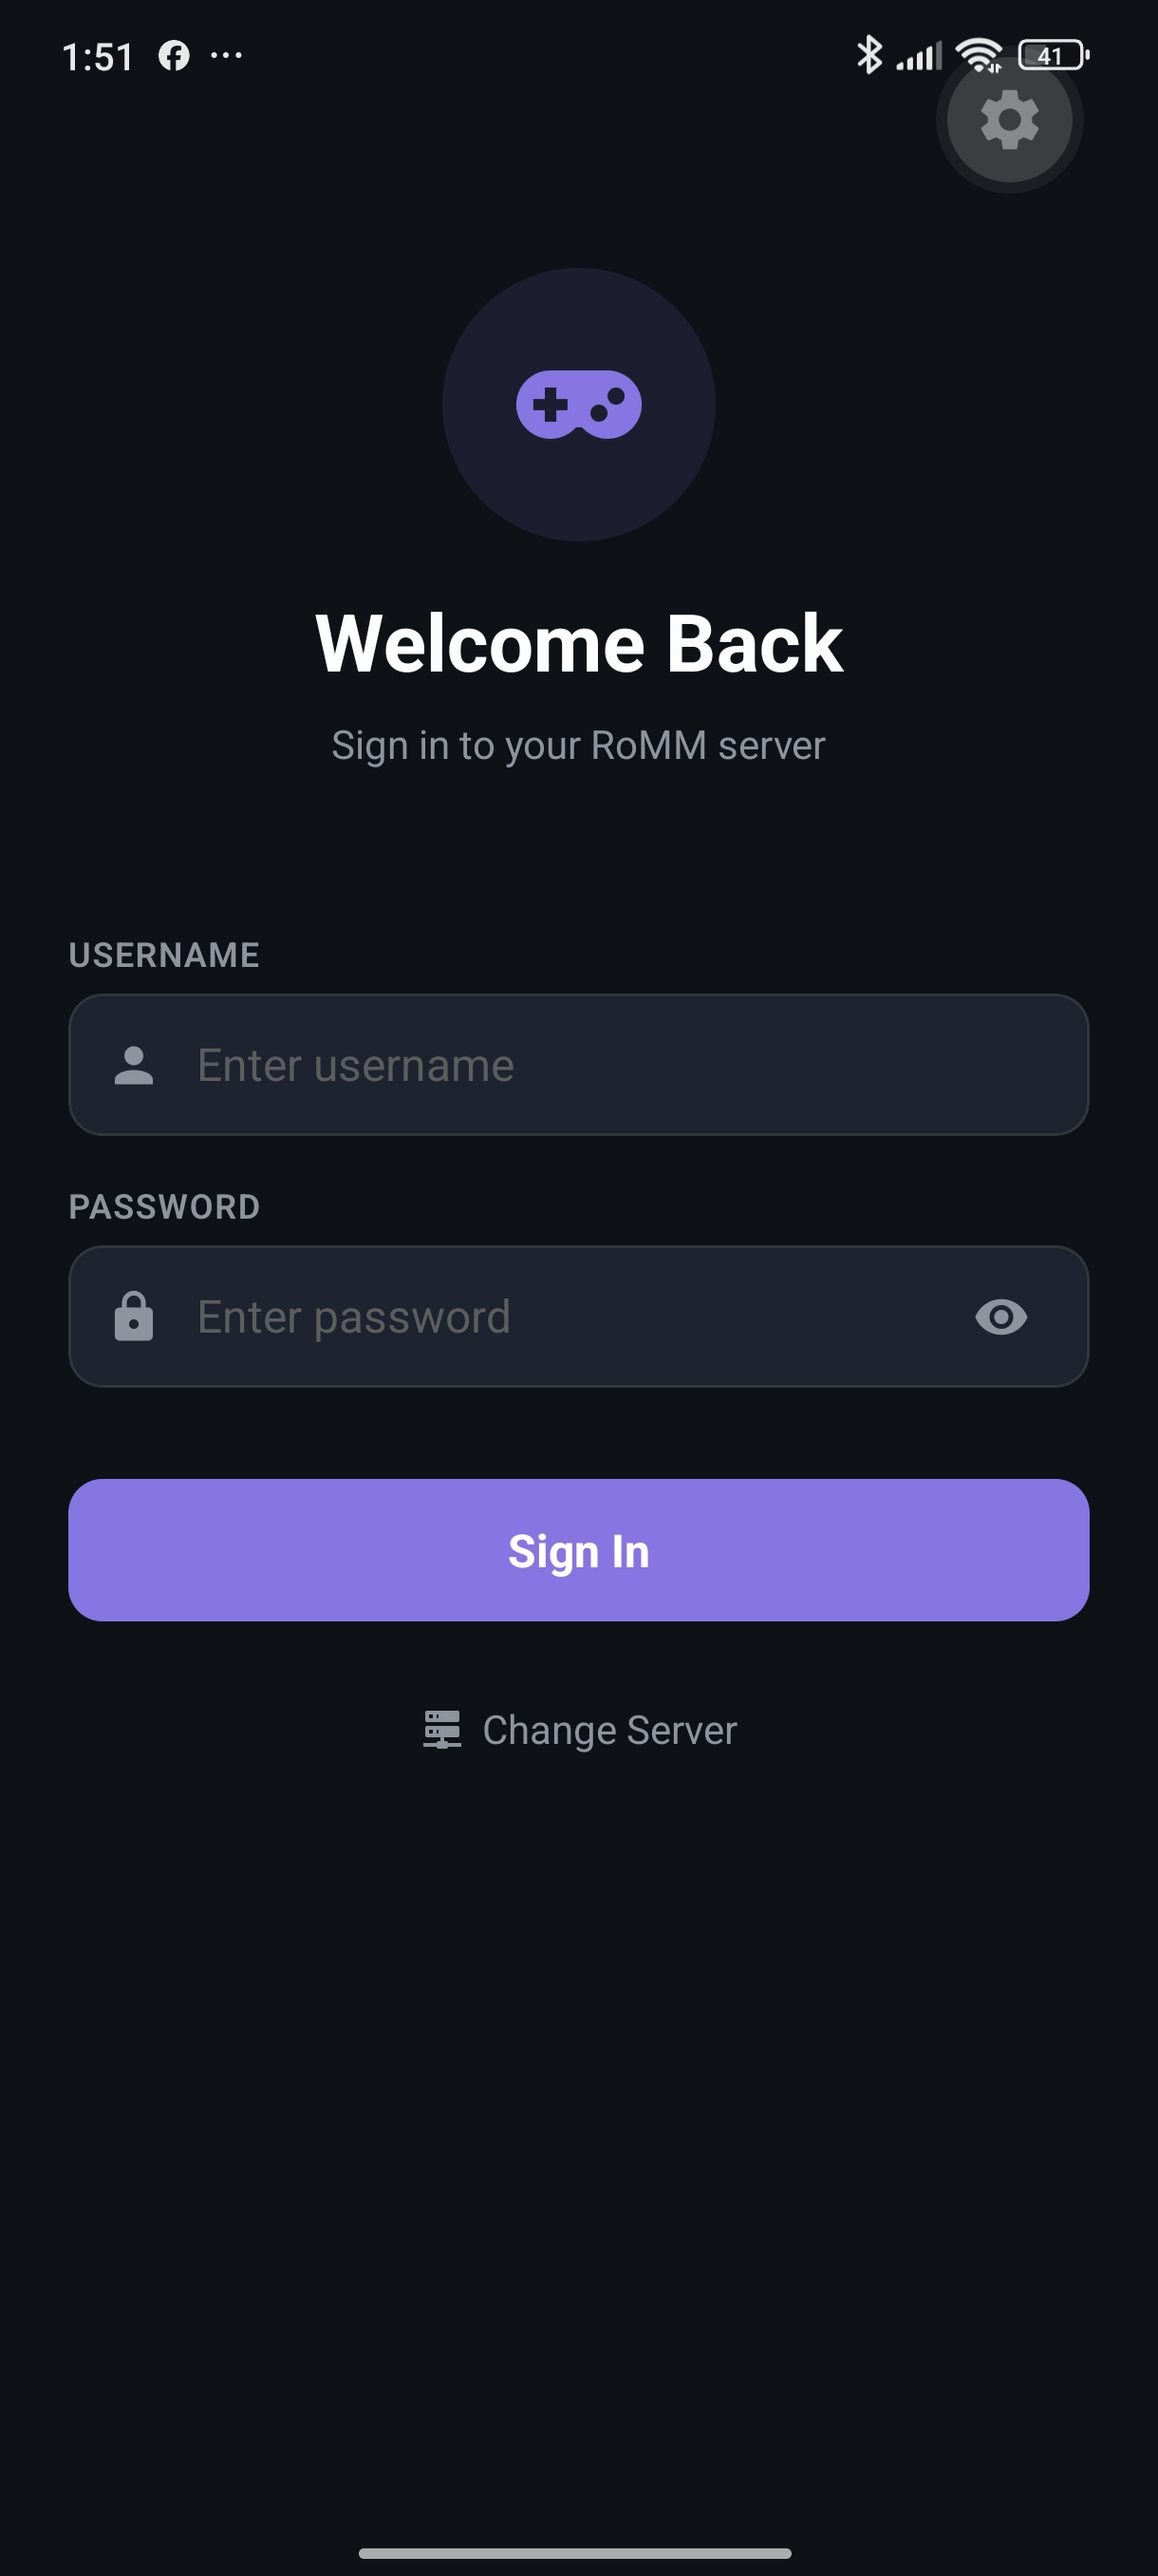
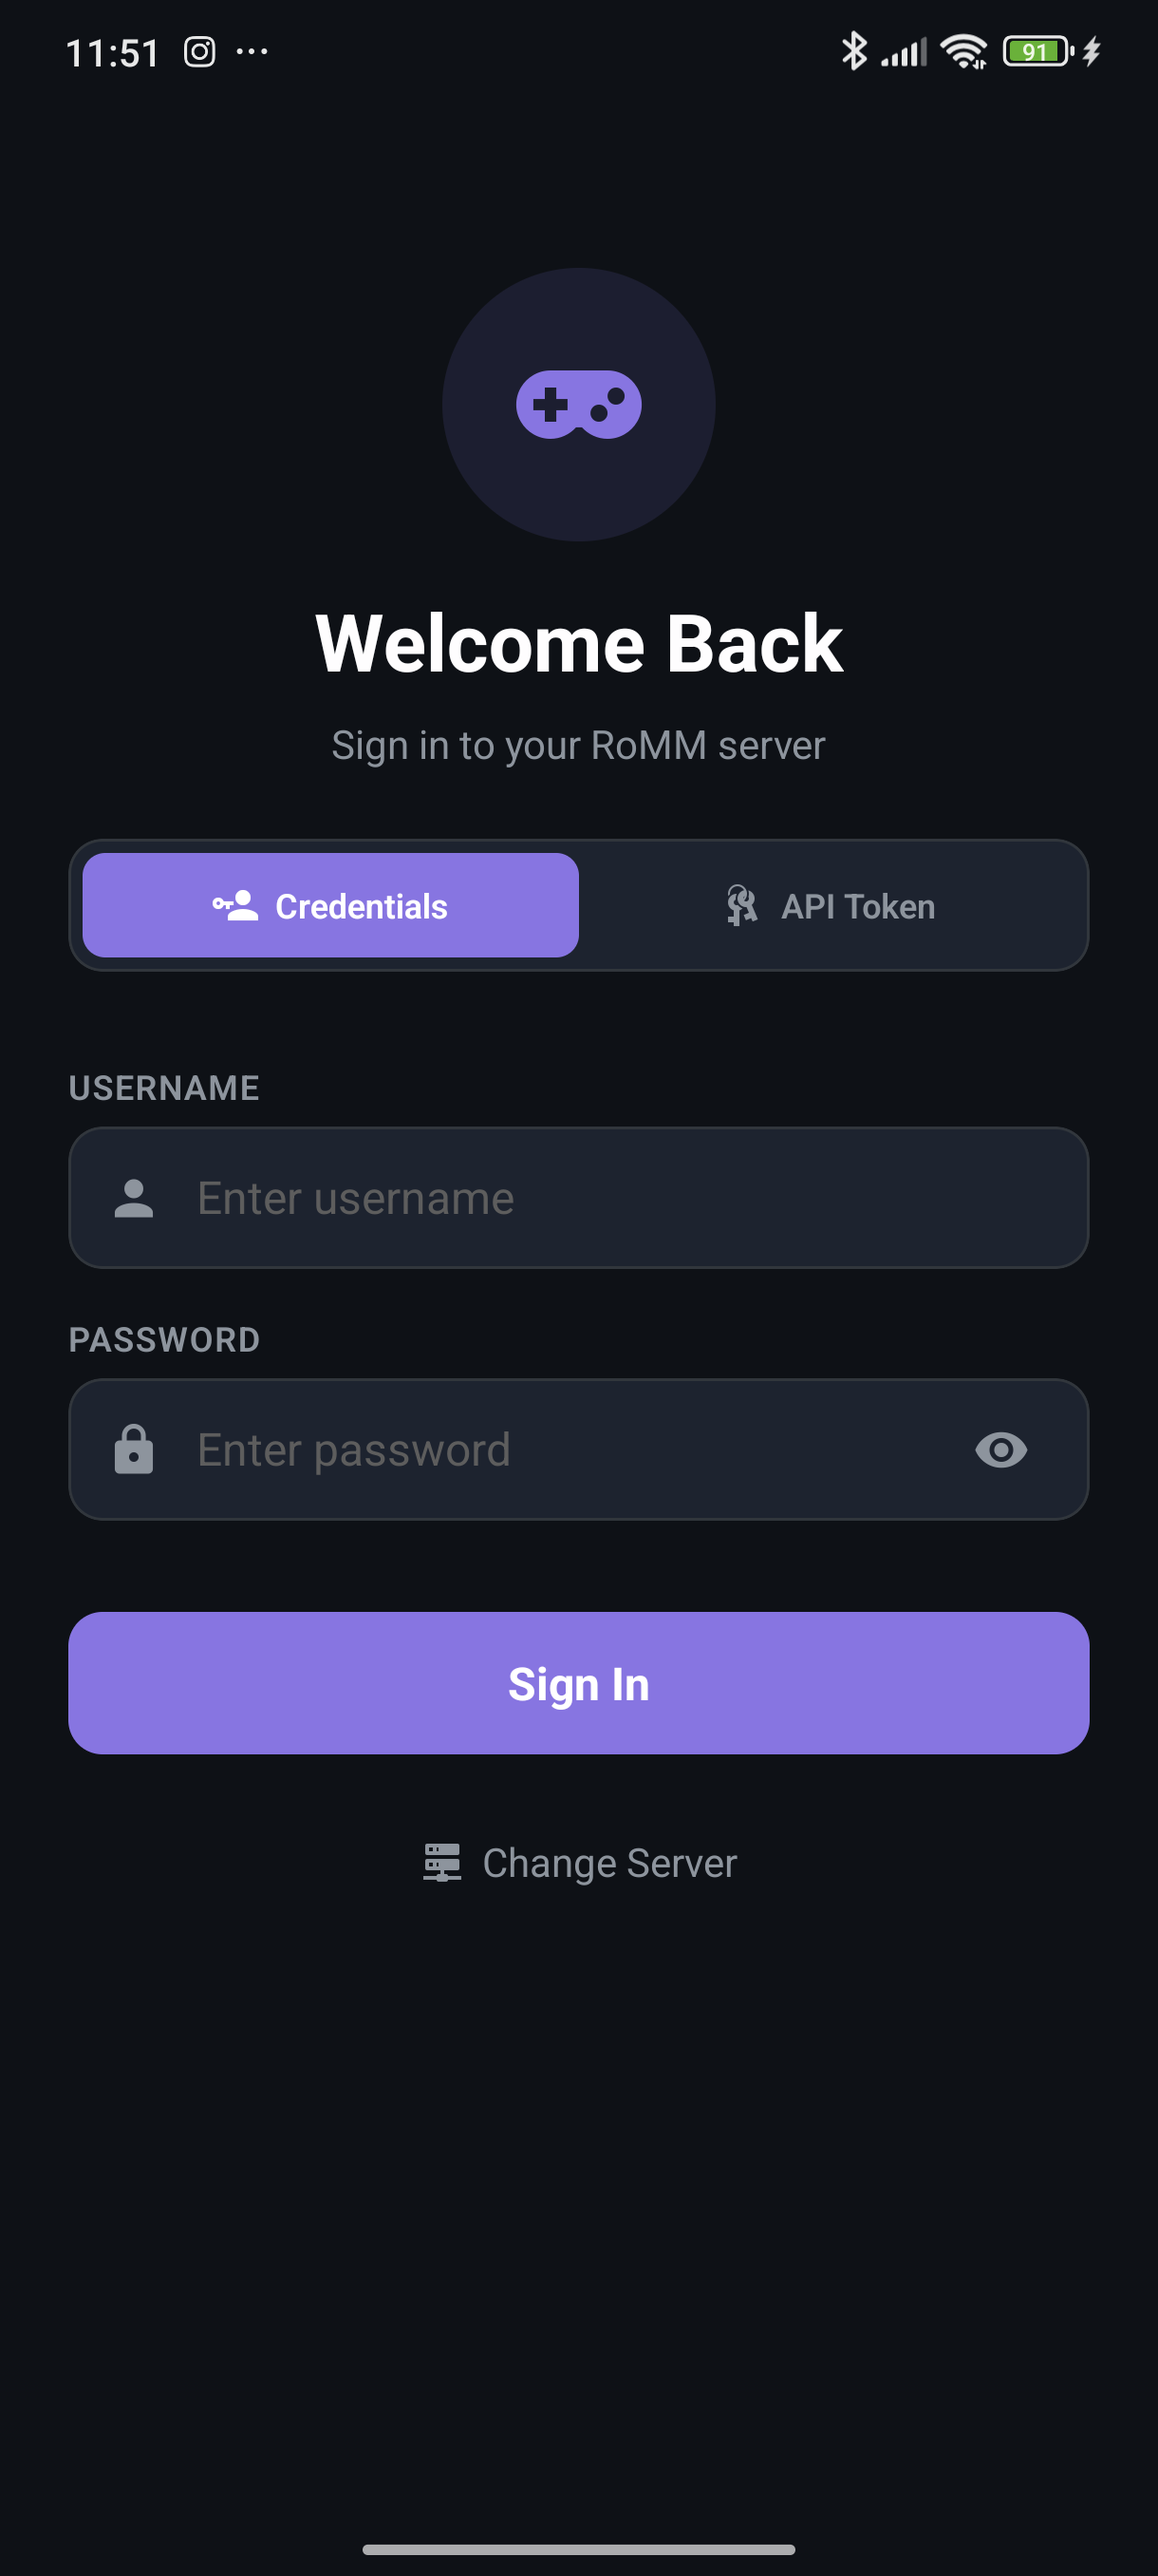
feat: QR code scanning for API token pairing + watermark
- Add expo-camera and QR scanner modal for pairing flow
- Extract pairing code from QR (URL format: /pair?code=XXXX-XXXX)
- Call /api/client-tokens/exchange to get raw token
- Auto-fill token field after successful scan
- Add camera permission to app.json
- Add watermark "by Cleyvin - 2026" to login screen footer
- Update login screenshot assets (Play Store + README)
- Fix: move usesCleartextTraffic into expo-build-properties
  (was getting overridden by the plugin and broke HTTP connections)

diff --git a/src/screens/Login/LoginScreen.tsx b/src/screens/Login/LoginScreen.tsx
@@ -11,14 +11,16 @@ import {
   Platform,
   ScrollView,
   ActivityIndicator,
+  Modal,
 } from 'react-native';
 import { useSafeAreaInsets } from 'react-native-safe-area-context';
 import { MaterialCommunityIcons } from '@expo/vector-icons';
 import { NativeStackNavigationProp } from '@react-navigation/native-stack';
 import AsyncStorage from '@react-native-async-storage/async-storage';
+import { CameraView, useCameraPermissions } from 'expo-camera';
 import { saveCredentials, saveApiToken } from '../../hooks/useAuthHeaders';
 import { useApp } from '../../store/AppContext';
-import { login, loginWithApiToken, getCurrentUser } from '../../api';
+import { login, loginWithApiToken, exchangePairingCode, getCurrentUser } from '../../api';
 import { STORAGE_KEYS } from '../../constants';
 import { RootStackParamList } from '../../types';
 import { spacing, borderRadius, fontSize } from '../../theme';
@@ -28,6 +30,15 @@ type Props = {
 };
 
 type LoginMethod = 'credentials' | 'apitoken';
+
+const extractPairingCode = (scanned: string): string | null => {
+  const cleaned = scanned.trim();
+  const urlMatch = cleaned.match(/[?&]code=([A-Za-z0-9-]+)/);
+  if (urlMatch) return urlMatch[1];
+  const plainMatch = cleaned.match(/^[A-Za-z0-9-]{8,10}$/);
+  if (plainMatch) return cleaned;
+  return null;
+};
 
 const LoginScreen = ({ navigation }: Props) => {
   const { colors, setUser, setCredentials, setAuthToken, setAuthMethod } = useApp();
@@ -40,6 +51,52 @@ const LoginScreen = ({ navigation }: Props) => {
   const [showToken, setShowToken] = useState(false);
   const [loading, setLoading] = useState(false);
   const [error, setError] = useState<string | null>(null);
+  const [scannerOpen, setScannerOpen] = useState(false);
+  const [scanning, setScanning] = useState(false);
+  const [permission, requestPermission] = useCameraPermissions();
+
+  const openScanner = async () => {
+    setError(null);
+    if (!permission?.granted) {
+      const result = await requestPermission();
+      if (!result.granted) {
+        setError('Camera permission is required to scan QR codes');
+        return;
+      }
+    }
+    setScanning(false);
+    setScannerOpen(true);
+  };
+
+  const handleQRScanned = async ({ data }: { data: string }) => {
+    if (scanning) return;
+    setScanning(true);
+
+    const code = extractPairingCode(data);
+    if (!code) {
+      setError('Invalid QR code. Expected a RoMM pairing code.');
+      setScannerOpen(false);
+      setScanning(false);
+      return;
+    }
+
+    try {
+      const rawToken = await exchangePairingCode(code);
+      setApiTokenInput(rawToken);
+      setScannerOpen(false);
+    } catch (err: any) {
+      if (err.response?.status === 404) {
+        setError('Pairing code expired. Generate a new one in your RoMM server.');
+      } else if (err.response?.status === 429) {
+        setError('Too many attempts. Wait a moment and try again.');
+      } else {
+        setError(`Failed to exchange pairing code: ${err.message}`);
+      }
+      setScannerOpen(false);
+    } finally {
+      setScanning(false);
+    }
+  };
 
   const handleLogin = async () => {
     if (loginMethod === 'credentials') {
@@ -124,7 +181,6 @@ const LoginScreen = ({ navigation }: Props) => {
           </Text>
         </View>
 
-        {/* Login method toggle */}
         <View style={[styles.toggleContainer, { backgroundColor: colors.inputBackground, borderColor: colors.border }]}>
           <TouchableOpacity
             style={[styles.toggleButton, loginMethod === 'credentials' && { backgroundColor: colors.primary }]}
@@ -200,7 +256,13 @@ const LoginScreen = ({ navigation }: Props) => {
             </>
           ) : (
             <>
-              <Text style={[styles.label, { color: colors.textSecondary }]}>API Token</Text>
+              <View style={styles.tokenLabelRow}>
+                <Text style={[styles.label, { color: colors.textSecondary }]}>API Token</Text>
+                <TouchableOpacity style={styles.scanButton} onPress={openScanner}>
+                  <MaterialCommunityIcons name="qrcode-scan" size={16} color={colors.primary} />
+                  <Text style={[styles.scanButtonText, { color: colors.primary }]}>Scan QR</Text>
+                </TouchableOpacity>
+              </View>
               <View style={[styles.inputContainer, { backgroundColor: colors.inputBackground, borderColor: colors.border }]}>
                 <MaterialCommunityIcons name="key" size={20} color={colors.textSecondary} style={styles.inputIcon} />
                 <TextInput
@@ -222,7 +284,7 @@ const LoginScreen = ({ navigation }: Props) => {
                 </TouchableOpacity>
               </View>
               <Text style={[styles.hint, { color: colors.textSecondary }]}>
-                Generate a token in your RoMM server under Settings {'>'} API Tokens
+                Generate a token in your RoMM server under Settings {'>'} API Tokens, or scan the pairing QR code.
               </Text>
             </>
           )}
@@ -251,7 +313,44 @@ const LoginScreen = ({ navigation }: Props) => {
             </Text>
           </TouchableOpacity>
         </View>
+
+        <View style={[styles.watermark, { paddingBottom: insets.bottom + 16 }]}>
+          <Text style={[styles.watermarkText, { color: colors.textSecondary }]}>
+            by Cleyvin · 2026
+          </Text>
+        </View>
       </ScrollView>
+
+      <Modal visible={scannerOpen} animationType="slide" onRequestClose={() => setScannerOpen(false)}>
+        <View style={[styles.scannerContainer, { backgroundColor: colors.background }]}>
+          <View style={[styles.scannerHeader, { paddingTop: insets.top + 12 }]}>
+            <TouchableOpacity onPress={() => setScannerOpen(false)} style={styles.scannerClose}>
+              <MaterialCommunityIcons name="close" size={28} color={colors.text} />
+            </TouchableOpacity>
+            <Text style={[styles.scannerTitle, { color: colors.text }]}>Scan Pairing QR</Text>
+            <View style={{ width: 28 }} />
+          </View>
+          {permission?.granted ? (
+            <CameraView
+              style={styles.camera}
+              facing="back"
+              barcodeScannerSettings={{ barcodeTypes: ['qr'] }}
+              onBarcodeScanned={scanning ? undefined : handleQRScanned}
+            >
+              <View style={styles.scannerOverlay}>
+                <View style={[styles.scannerFrame, { borderColor: colors.primary }]} />
+                <Text style={[styles.scannerHint, { color: '#fff' }]}>
+                  {scanning ? 'Exchanging code...' : 'Point the camera at the QR code'}
+                </Text>
+              </View>
+            </CameraView>
+          ) : (
+            <View style={styles.permissionPrompt}>
+              <Text style={[styles.hint, { color: colors.text }]}>Camera permission required</Text>
+            </View>
+          )}
+        </View>
+      </Modal>
     </KeyboardAvoidingView>
   );
 };
@@ -261,7 +360,7 @@ const styles = StyleSheet.create({
   scrollContent: {
     flexGrow: 1,
     paddingHorizontal: 24,
-    paddingBottom: 40,
+    paddingBottom: 20,
   },
   header: {
     alignItems: 'center',
@@ -324,6 +423,22 @@ const styles = StyleSheet.create({
     textTransform: 'uppercase',
     letterSpacing: 0.5,
   },
+  tokenLabelRow: {
+    flexDirection: 'row',
+    justifyContent: 'space-between',
+    alignItems: 'flex-end',
+  },
+  scanButton: {
+    flexDirection: 'row',
+    alignItems: 'center',
+    gap: 4,
+    paddingHorizontal: 10,
+    paddingVertical: 6,
+  },
+  scanButtonText: {
+    fontSize: fontSize.sm,
+    fontWeight: '600',
+  },
   inputContainer: {
     flexDirection: 'row',
     alignItems: 'center',
@@ -370,6 +485,58 @@ const styles = StyleSheet.create({
   changeServerText: {
     marginLeft: 6,
     fontSize: fontSize.md,
+  },
+  watermark: {
+    alignItems: 'center',
+    marginTop: 40,
+  },
+  watermarkText: {
+    fontSize: fontSize.sm,
+    opacity: 0.6,
+  },
+  scannerContainer: {
+    flex: 1,
+  },
+  scannerHeader: {
+    flexDirection: 'row',
+    alignItems: 'center',
+    justifyContent: 'space-between',
+    paddingHorizontal: 16,
+    paddingBottom: 12,
+  },
+  scannerClose: {
+    padding: 4,
+  },
+  scannerTitle: {
+    fontSize: fontSize.lg,
+    fontWeight: '700',
+  },
+  camera: {
+    flex: 1,
+  },
+  scannerOverlay: {
+    flex: 1,
+    justifyContent: 'center',
+    alignItems: 'center',
+    backgroundColor: 'rgba(0,0,0,0.3)',
+  },
+  scannerFrame: {
+    width: 260,
+    height: 260,
+    borderWidth: 3,
+    borderRadius: 16,
+  },
+  scannerHint: {
+    marginTop: 20,
+    fontSize: fontSize.md,
+    fontWeight: '600',
+    textAlign: 'center',
+    paddingHorizontal: 20,
+  },
+  permissionPrompt: {
+    flex: 1,
+    justifyContent: 'center',
+    alignItems: 'center',
   },
 });
 

diff --git a/src/api/auth.ts b/src/api/auth.ts
@@ -1,6 +1,7 @@
 // by Cleyvin
 
 import axios from 'axios';
+import AsyncStorage from '@react-native-async-storage/async-storage';
 import { getApiClient, getBaseUrl, setTokens, setApiTokenDirect } from './client';
 import { API_PATHS } from '../constants';
 import { AuthTokens, User, ServerConfig, HeartbeatResponse } from '../types';
@@ -46,4 +47,22 @@ export const logout = async (): Promise<void> => {
   } catch {
     // Ignore logout errors
   }
+};
+
+export const exchangePairingCode = async (code: string): Promise<string> => {
+  const cfg = await AsyncStorage.getItem('@romm_server_config');
+  if (!cfg) throw new Error('No server config');
+  const c = JSON.parse(cfg);
+  const protocol = c.useHttps ? 'https' : 'http';
+  const port = c.port ? `:${c.port}` : '';
+  const baseURL = `${protocol}://${c.host}${port}`;
+  const response = await axios.post(`${baseURL}/api/client-tokens/exchange`, { code }, {
+    headers: { 'Content-Type': 'application/json' },
+    timeout: 15000,
+  });
+  const rawToken = response.data?.raw_token;
+  if (!rawToken || !rawToken.startsWith('rmm_')) {
+    throw new Error('Invalid response from server');
+  }
+  return rawToken;
 };

diff --git a/src/api/index.ts b/src/api/index.ts
@@ -1,7 +1,7 @@
 // by Cleyvin
 
 export { createApiClient, getApiClient, getBaseUrl, clearTokens } from './client';
-export { testConnection, login, loginWithApiToken, getCurrentUser, logout } from './auth';
+export { testConnection, login, loginWithApiToken, exchangePairingCode, getCurrentUser, logout } from './auth';
 export { getPlatforms, getPlatform } from './platforms';
 export { getRoms, getRom, searchRoms, getRomDownloadUrl } from './roms';
 export { getCollections, getCollection } from './collections';
